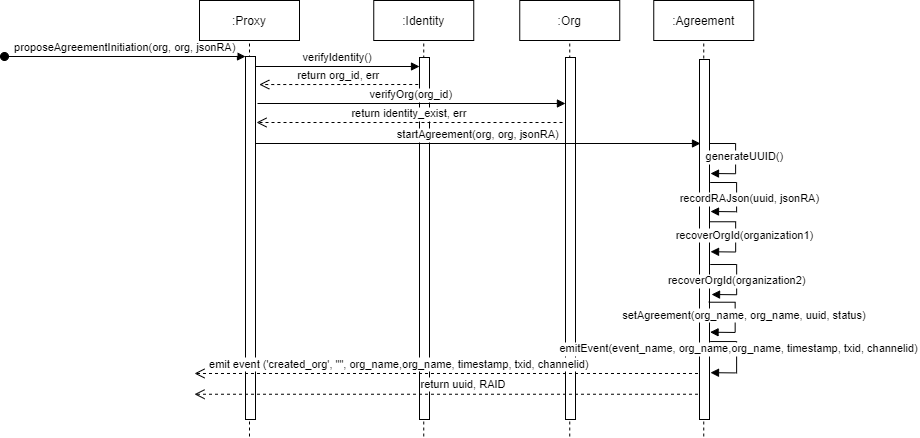
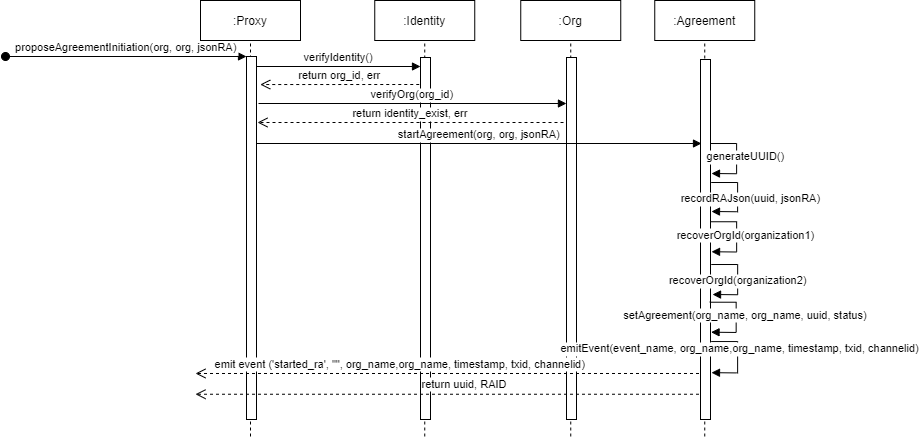
18.08.21.5

diff --git a/chaincode/README.md b/chaincode/README.md
@@ -25,12 +25,14 @@
 |Method                    | Event                  | State                 |
 |:------------------------:|:----------------------:|:---------------------:|
 |proposeAgreementInitiation|started_ra              |started_ra             |
-- A registered organization can enable the drafting of a Roaming Agreement.
-- Identity is verified.
-- The inputs are two `json org` and `json ROAT.json`, i.e., the output of the NLP engine.
+- A registered organization is enabled to draft a Roaming Agreement.
+- Identity is verified at each interaction.
+- The inputs are two `json org` and `json jsonRA`.
+- The `json jsonRA` provides basic information of the Roaming Agreement.
 - The `RAID` is generated.
     - `RAID` is accesible for all MNOs.
-- An event is emitted to set the state `started_ra`.
+- The Roaming Agreement status is set as `started_ra`.
+- The `started_ra` event is emitted.
 <img src="https://github.com/sfl0r3nz05/NLP-DLT/blob/main/chaincode/design/images/03.png">       
 <img src="https://github.com/sfl0r3nz05/NLP-DLT/blob/main/chaincode/design/images/04.png">
 
